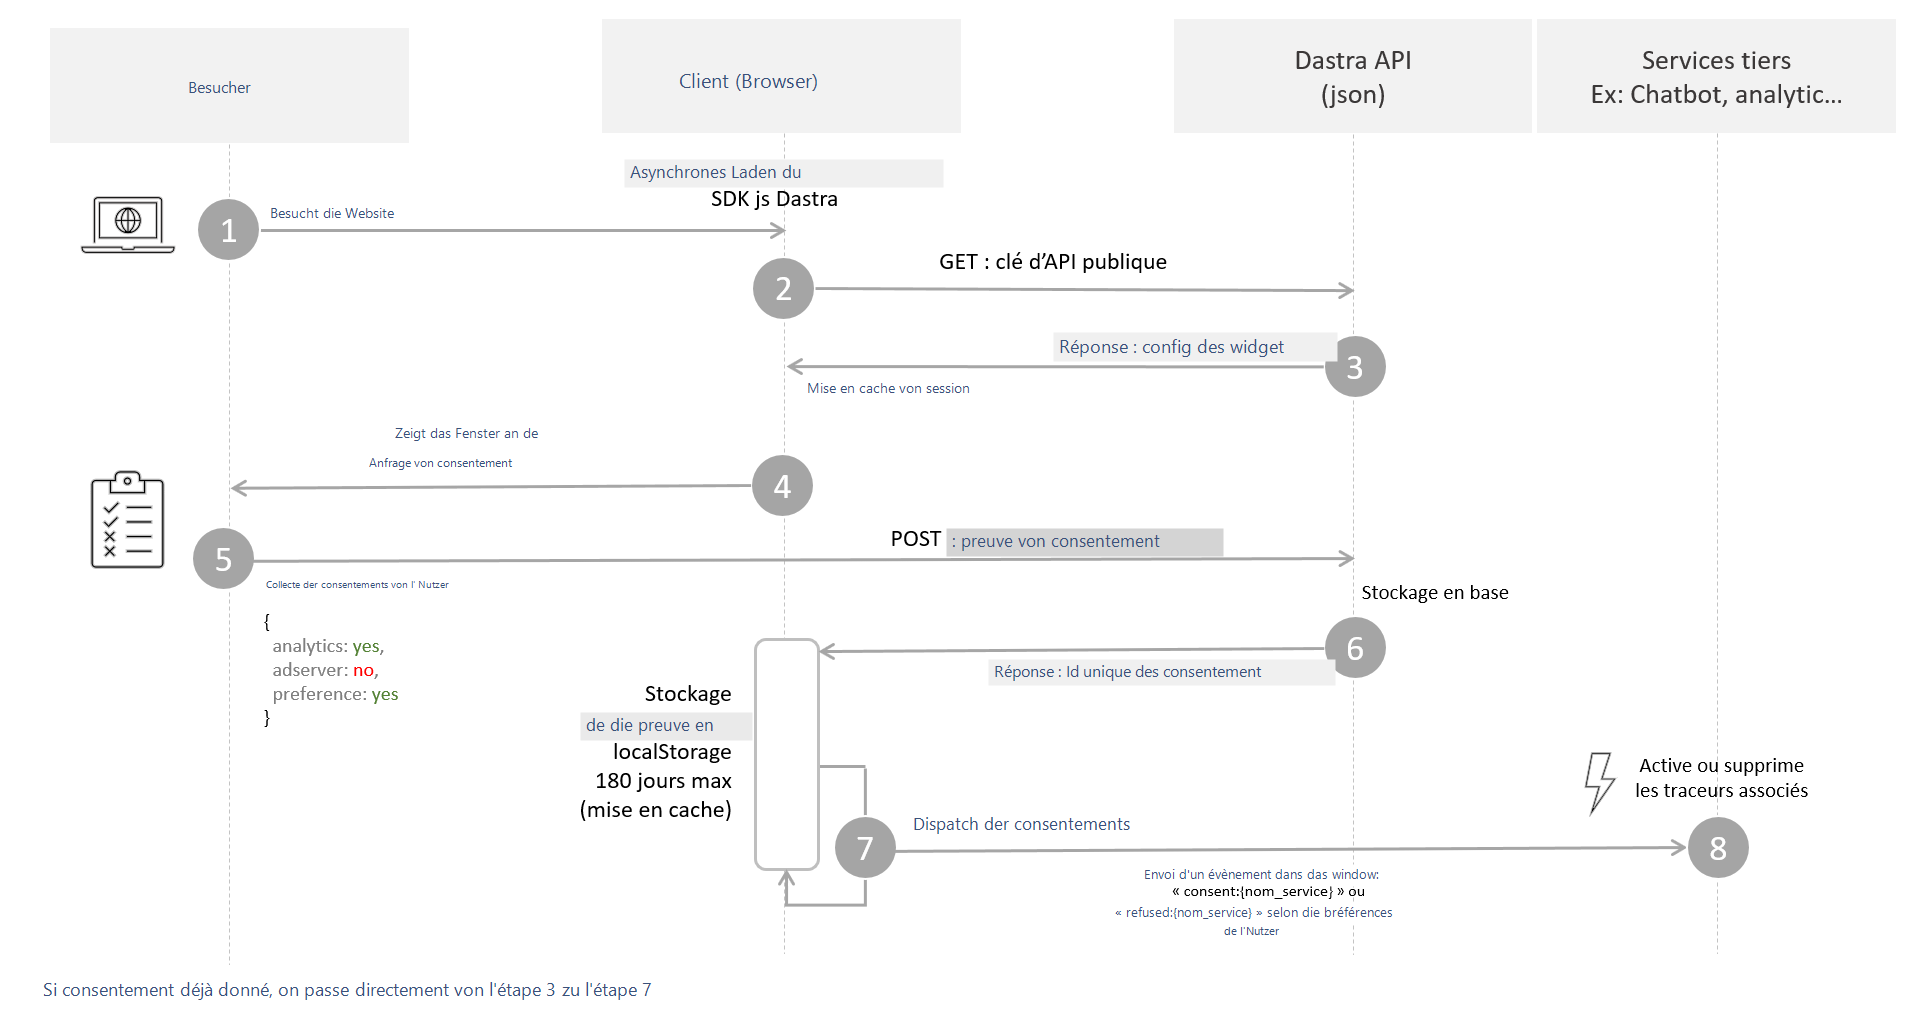
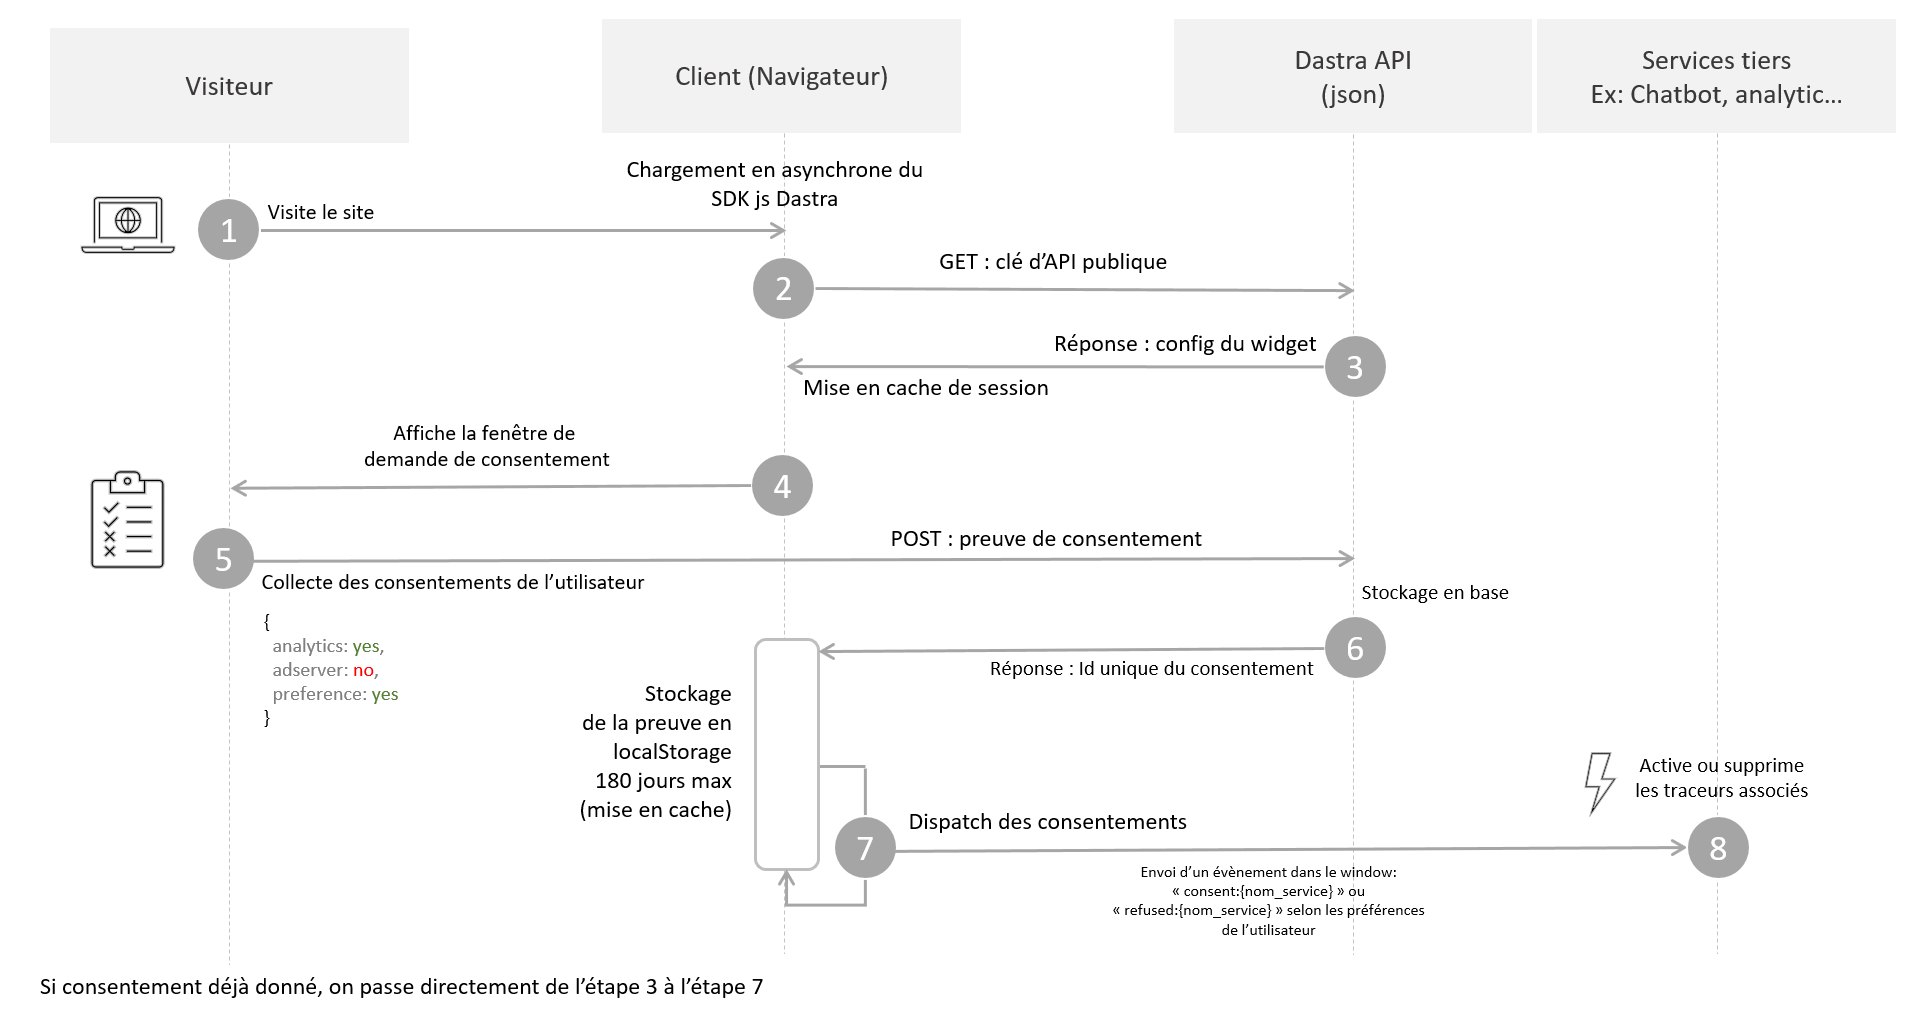
Replace two old German screenshots with the English ones
Point de/api/configuration.md at the English custom field image and refresh the German cookie-consent image from English. No text change.

diff --git a/de/api/configuration.md b/de/api/configuration.md
@@ -61,7 +61,7 @@ In Dastra ist es möglich, [benutzerdefinierte Felder](../features/general/custo
 
 Benutzerdefinierte Felder sind für jeden Mandanten spezifisch. Um sie in der Dastra-API zu berücksichtigen, legen Sie zunächst den **Namen der Variablen (Slug)** in der Definition des benutzerdefinierten Feldes fest:
 
-<figure><img src="../.gitbook/assets/image-276.png" alt=""><figcaption></figcaption></figure>
+<figure><img src="../.gitbook/assets/general-custom-fields-4.png" alt=""><figcaption></figcaption></figure>
 
 {% content-ref url="../features/general/custom-fields.md" %}
 [custom-fields.md](../features/general/custom-fields.md)
